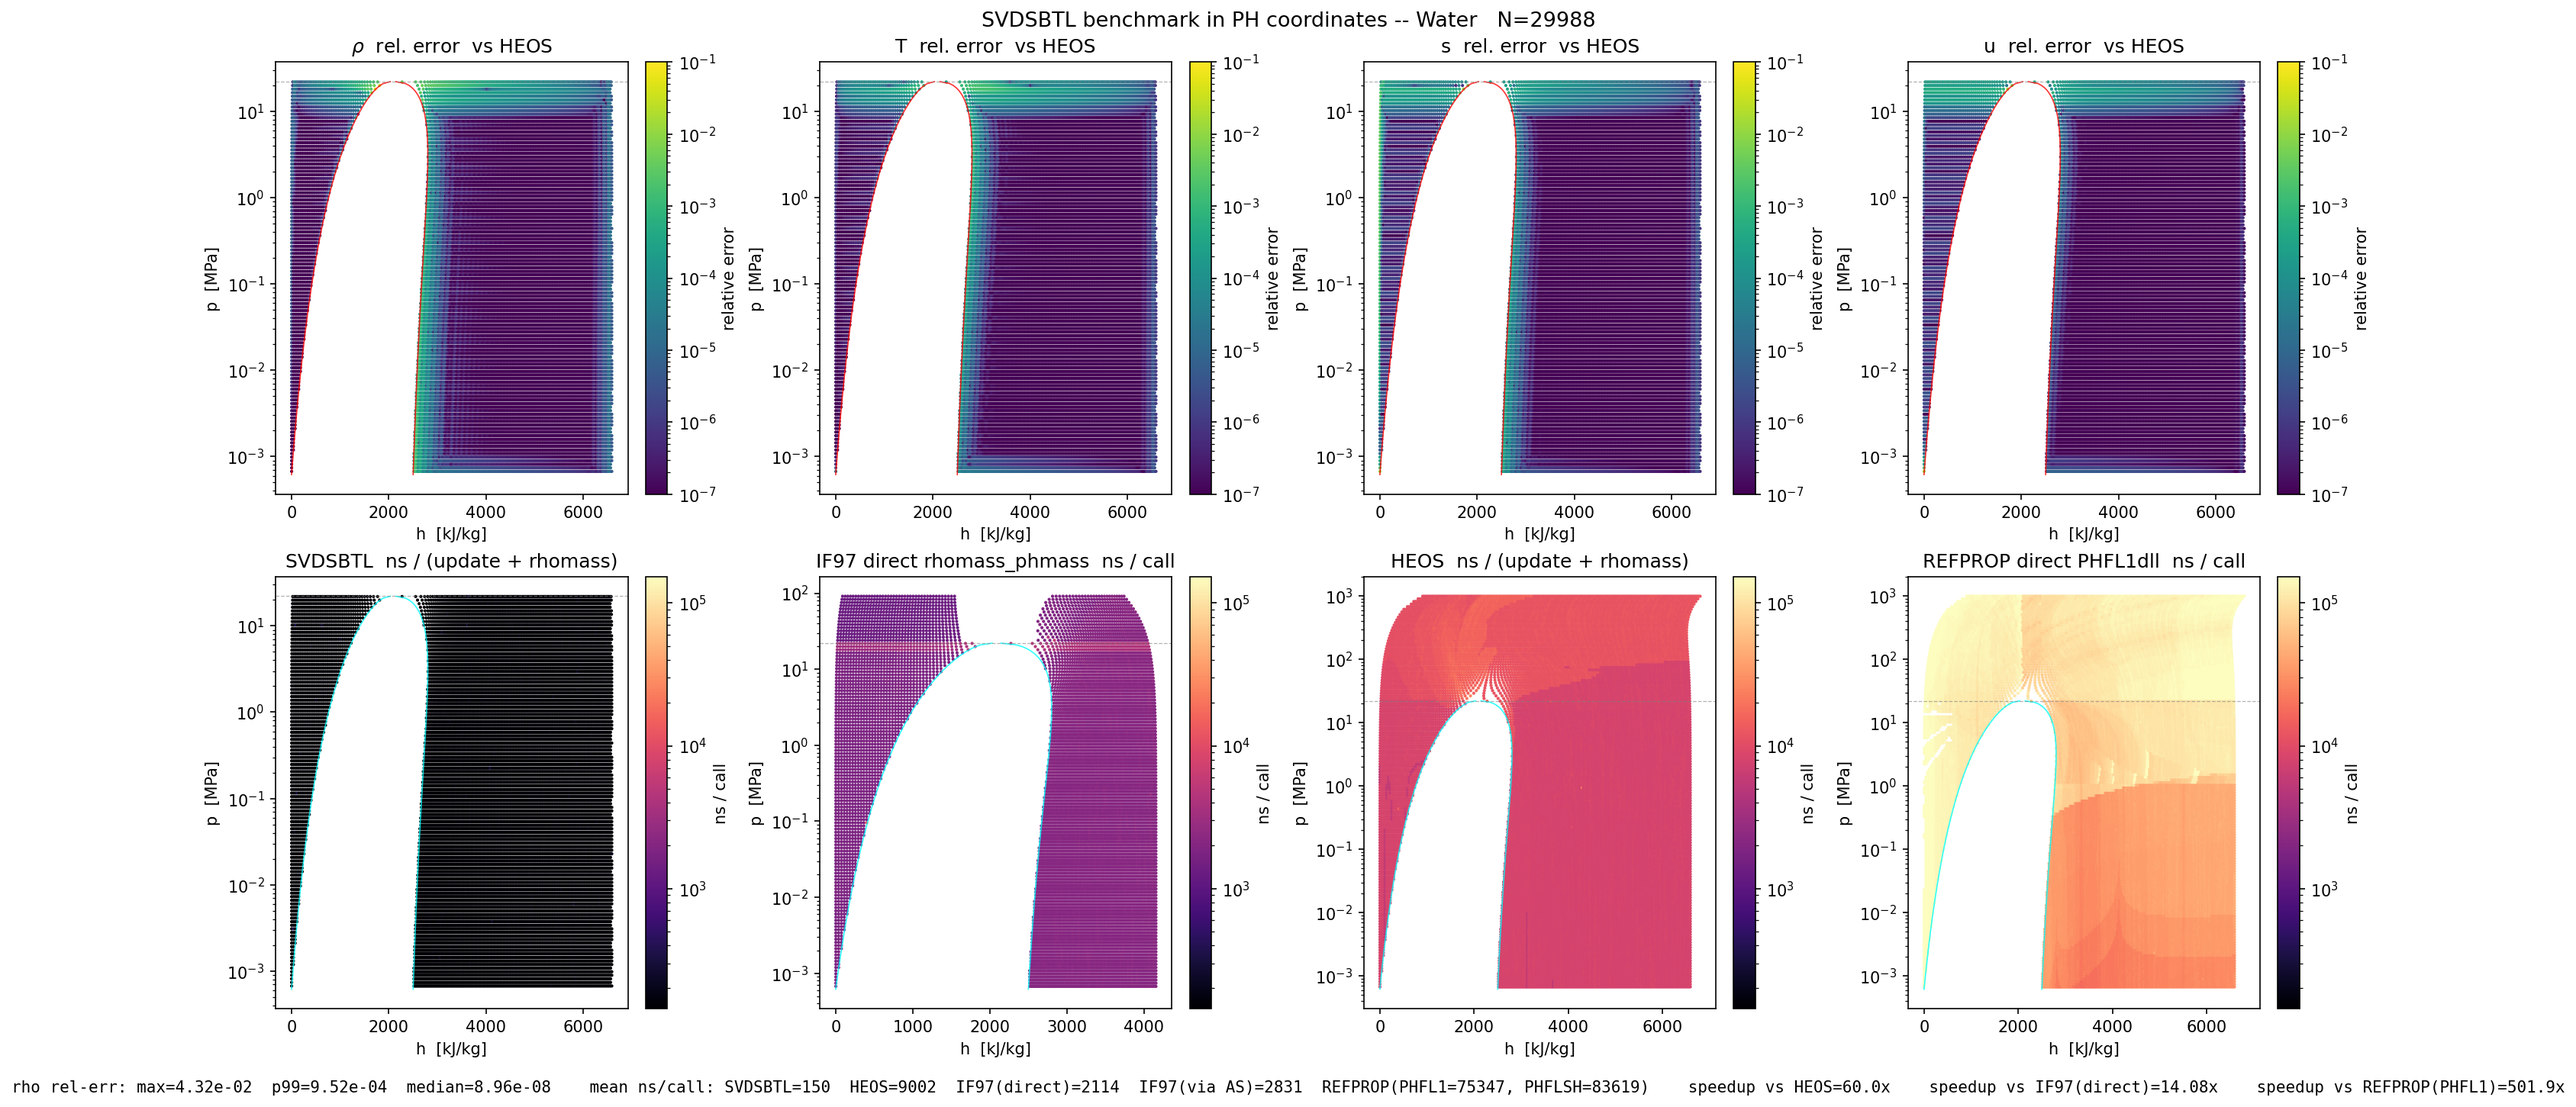
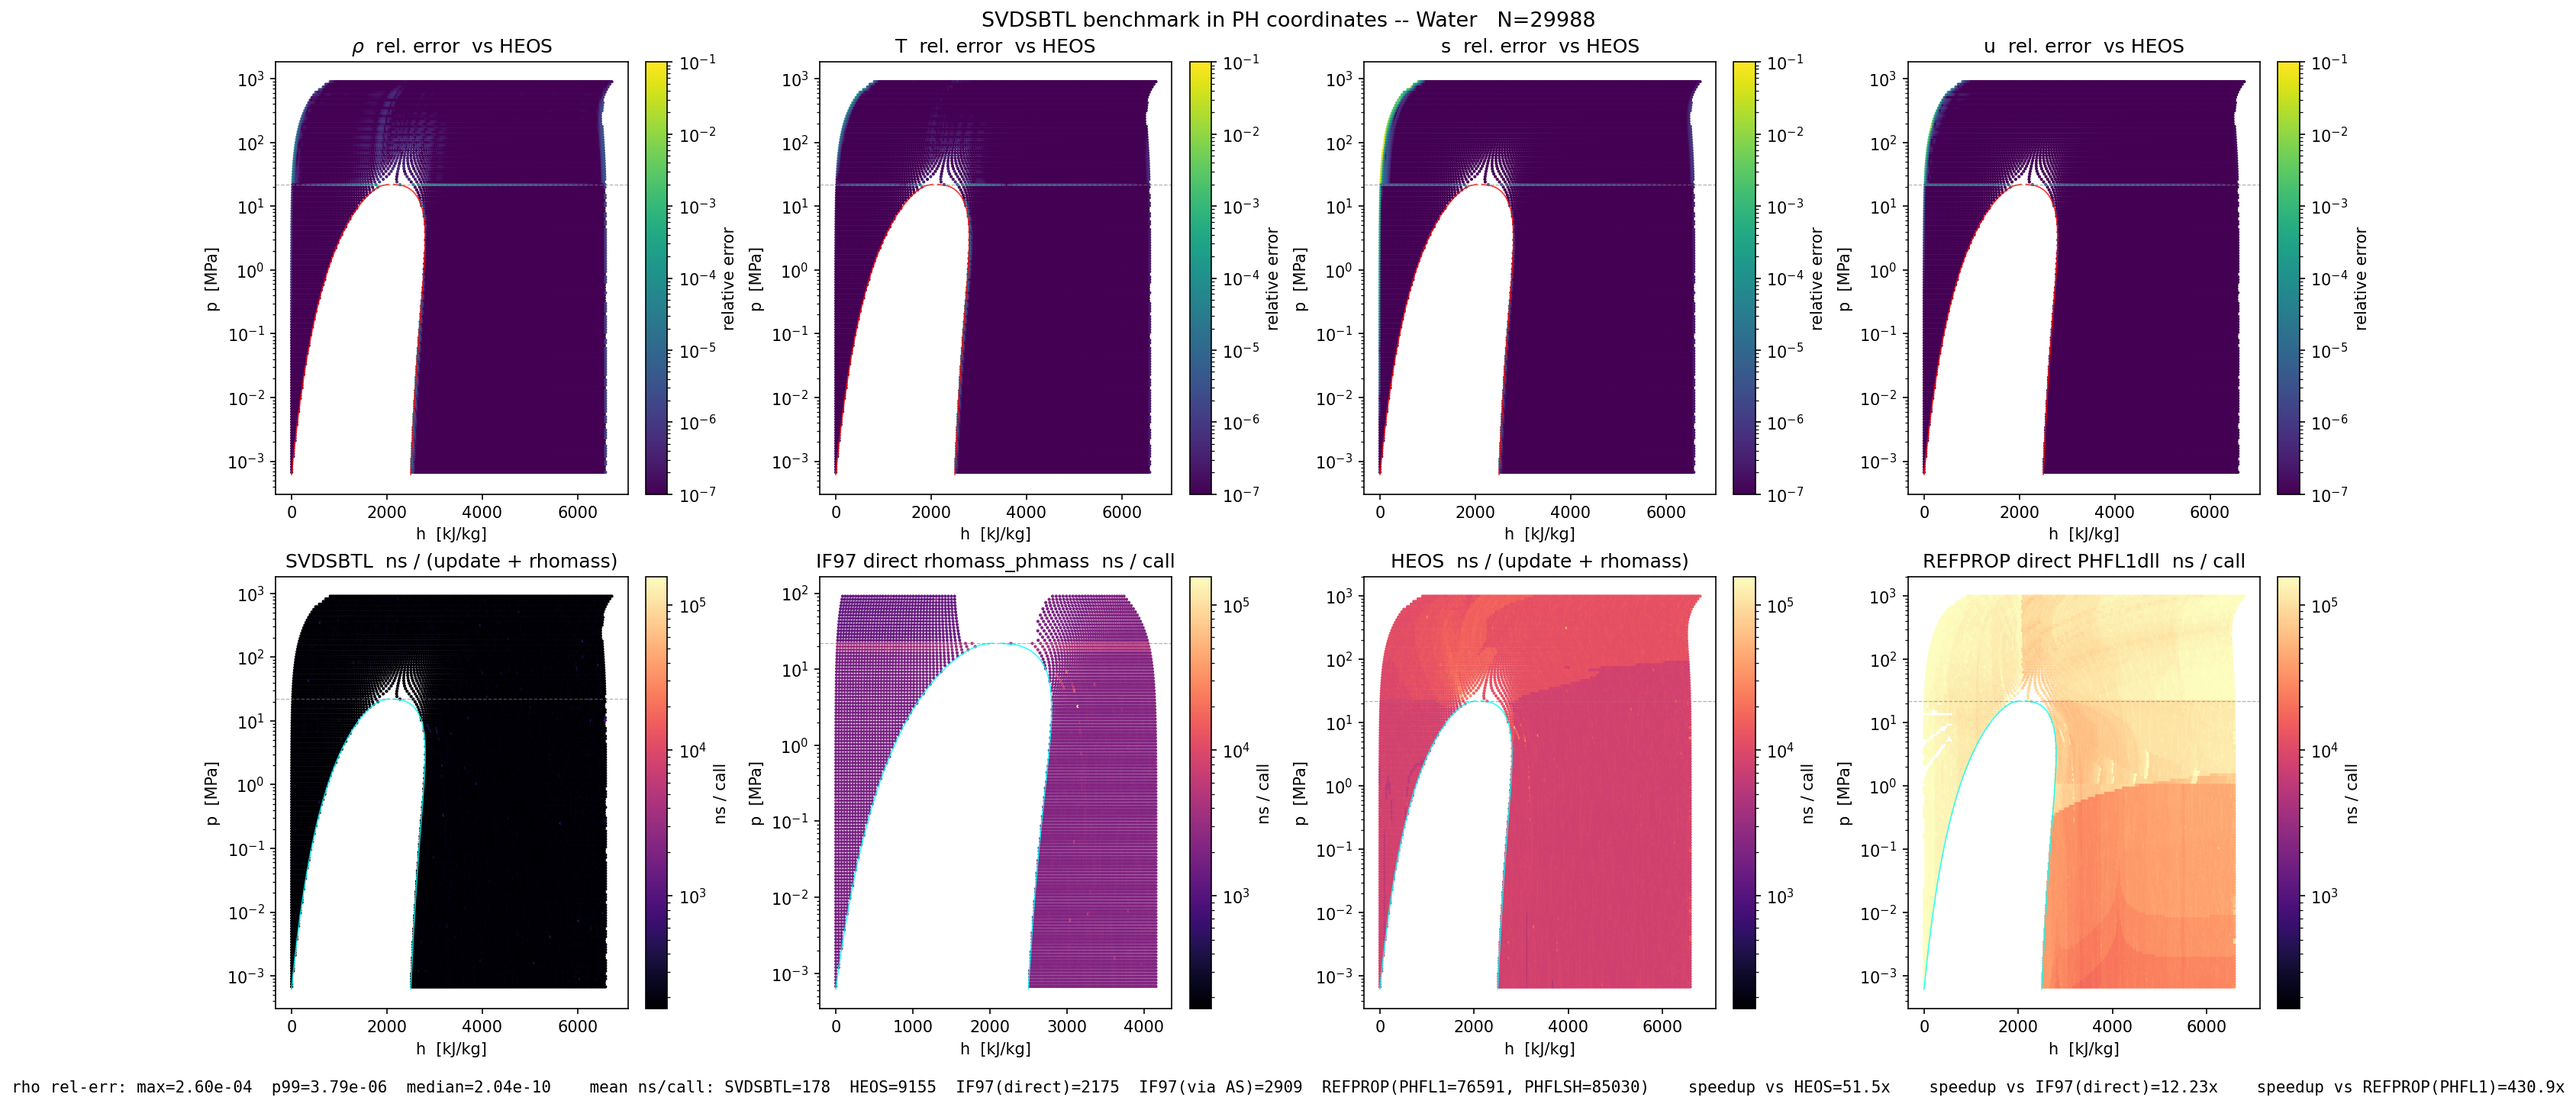
feat(svdsbtl): SUPER region — full-phase-diagram coverage for water
Extends the ph_subcritical / pt_subcritical presets from 2 regions
(LIQUID + VAPOR) to 3 regions (LIQUID + VAPOR + SUPER), closing the
supercritical coverage gap that was the biggest visible failure mode
in the previous hammer plot.  Name is now historical (these presets
cover the full HEOS envelope) -- could be renamed in a follow-up.

Coverage / accuracy on Water (29988-point grid hammer):

  Metric           Before SUPER     After SUPER       Improvement
  ----------------------------------------------------------------
  in-domain        21972 (73.3%)    29750 (99.2%)     +26 pp
  rho max          4.32e-2          2.60e-4           166x better
  rho p99          9.52e-4          3.79e-6           251x better
  rho p95          1.62e-4          1.51e-7          1073x better
  rho median       8.96e-8          2.04e-10          439x better

The "max rho rel-err = 4.3%" dome-adjacent ribbon from the previous
hammer was actually concentrated at p just below p_crit, where the
sat dome pinches and the xnorm = (h - h_lo)/(h_hi - h_lo) transform
becomes ill-conditioned.  With a deliberate ~0.2% pressure gap left
between subcritical p_max (0.999 * p_crit) and supercritical p_min
(1.001 * p_crit), those pathological cells now correctly fall out of
domain rather than being squashed into the highest-error subcritical
cells.

Out-of-domain 238 cells (0.8%) are: (a) the dome interior, which is
two-phase and not covered, (b) a thin pressure gap around p_crit
[…]

diff --git a/src/SBTL/SurfacePresets.cpp b/src/SBTL/SurfacePresets.cpp
@@ -44,7 +44,11 @@ std::vector<PropertySpec> pt_properties() {
 }  // namespace
 
 SurfaceSpec ph_subcritical(::CoolProp::AbstractState& heos, std::size_t NT, std::size_t NR, std::int32_t rank) {
-    const auto [p_min, p_max] = subcritical_pressure_range(heos);
+    // Name is historical: this preset now also registers a SUPER
+    // region above p_crit so the surface covers the full HEOS
+    // (p, h) envelope.  Three regions: LIQUID + VAPOR + SUPER.
+    const auto [p_min, p_max_sub] = subcritical_pressure_range(heos);
+    const auto [p_min_sup, p_max_sup] = supercritical_pressure_range(heos);
     const double T_min_eos = std::max(heos.Ttriple(), heos.Tmin());
     const double T_max_eos = heos.Tmax();
 
@@ -61,9 +65,9 @@ SurfaceSpec ph_subcritical(::CoolProp::AbstractState& heos, std::size_t NT, std:
     //                       if T_min < T_melt(p) at high p.
     //   b_hi = h_sat,L(p) — liquid side of the saturation dome.
     {
-        auto axis = region::AxisTransform::make(region::AxisScale::LOG, p_min, p_max);
-        auto lo = build_h_isotherm_floor(heos, p_min, p_max, T_min_eos);
-        auto hi = build_h_sat_L(heos, p_min, p_max);
+        auto axis = region::AxisTransform::make(region::AxisScale::LOG, p_min, p_max_sub);
+        auto lo = build_h_isotherm_floor(heos, p_min, p_max_sub, T_min_eos);
+        auto hi = build_h_sat_L(heos, p_min, p_max_sub);
         spec.regions.emplace_back(axis, std::move(lo), std::move(hi));
     }
     // VAPOR region: primary = log p, secondary = h.
@@ -71,9 +75,19 @@ SurfaceSpec ph_subcritical(::CoolProp::AbstractState& heos, std::size_t NT, std:
     //   b_hi = h(T_max - 0.5 K, p) — hot ceiling within the HEOS
     //                                validity envelope.
     {
-        auto axis = region::AxisTransform::make(region::AxisScale::LOG, p_min, p_max);
-        auto lo = build_h_sat_V(heos, p_min, p_max);
-        auto hi = build_h_isotherm_ceiling(heos, p_min, p_max, T_max_eos - 0.5);
+        auto axis = region::AxisTransform::make(region::AxisScale::LOG, p_min, p_max_sub);
+        auto lo = build_h_sat_V(heos, p_min, p_max_sub);
+        auto hi = build_h_isotherm_ceiling(heos, p_min, p_max_sub, T_max_eos - 0.5);
+        spec.regions.emplace_back(axis, std::move(lo), std::move(hi));
+    }
+    // SUPER region: p > p_crit.  Primary = log p over [p_crit*1.001,
+    // p_max_eos*0.99], secondary = h.  No sat dome above p_crit, so
+    // the secondary bounds are the same low-T / high-T isotherms used
+    // by LIQUID / VAPOR — they continue smoothly into supercritical.
+    {
+        auto axis = region::AxisTransform::make(region::AxisScale::LOG, p_min_sup, p_max_sup);
+        auto lo = build_h_isotherm_floor(heos, p_min_sup, p_max_sup, T_min_eos);
+        auto hi = build_h_isotherm_ceiling(heos, p_min_sup, p_max_sup, T_max_eos - 0.5);
         spec.regions.emplace_back(axis, std::move(lo), std::move(hi));
     }
 
@@ -102,8 +116,45 @@ SurfaceSpec ph_subcritical(::CoolProp::AbstractState& heos, std::size_t NT, std:
     return spec;
 }
 
+// Build a T-floor CubicSplineCurve for any pressure range, walking T
+// up at each knot to clear the melting line if needed.  Reused by
+// both the subcritical LIQUID region and the SUPER region of the PT
+// preset.
+namespace {
+std::unique_ptr<region::CubicSplineCurve> pt_T_floor_curve_(::CoolProp::AbstractState& heos, double p_min, double p_max, double T_min_eos,
+                                                            const SatBoundaryBuildOptions& sbopts) {
+    const double log_p_min = std::log(p_min);
+    const double log_p_max = std::log(p_max);
+    std::vector<double> p_knots(sbopts.n_knots);
+    std::vector<double> y(sbopts.n_knots);
+    const std::size_t walk_steps = sbopts.t_floor_walk_steps;
+    for (std::size_t k = 0; k < sbopts.n_knots; ++k) {
+        const double p = std::exp(log_p_min + static_cast<double>(k) * (log_p_max - log_p_min) / static_cast<double>(sbopts.n_knots - 1));
+        p_knots[k] = p;
+        double T_found = std::nan("");
+        for (std::size_t s = 0; s < walk_steps; ++s) {
+            const double T_try = T_min_eos + 0.5 * static_cast<double>(s);
+            try {
+                heos.update(::CoolProp::PT_INPUTS, p, T_try);
+                T_found = T_try;
+                break;
+            } catch (...) {  // NOLINT(bugprone-empty-catch)
+            }
+        }
+        if (!std::isfinite(T_found)) {
+            throw std::runtime_error("pt preset: T-floor unreachable within " + std::to_string(walk_steps / 2) + " K of T_min_eos");
+        }
+        y[k] = T_found;
+    }
+    return region::CubicSplineCurve::build(std::move(p_knots), std::move(y));
+}
+}  // namespace
+
 SurfaceSpec pt_subcritical(::CoolProp::AbstractState& heos, std::size_t NT, std::size_t NR, std::int32_t rank) {
+    // Historical name; now covers the full phase diagram via three
+    // regions: LIQUID + VAPOR (subcritical) + SUPER (p > p_crit).
     const auto [p_min, p_max] = subcritical_pressure_range(heos);
+    const auto [p_min_sup, p_max_sup] = supercritical_pressure_range(heos);
     const double T_min_eos = std::max(heos.Ttriple(), heos.Tmin());
     const double T_max_eos = heos.Tmax();
 
@@ -123,34 +174,11 @@ SurfaceSpec pt_subcritical(::CoolProp::AbstractState& heos, std::size_t NT, std:
     // exactly like the h-floor case.
 
     // LIQUID region.  T-floor walks T_min(p) up over the melting
-    // line, same trick as build_h_isotherm_floor.  Pre-compute the
-    // (p, T_floor) knots inline, then hand them to CubicSplineCurve.
+    // line.  Helper handles the knot loop so the SUPER region below
+    // can reuse it.
     {
-        const SatBoundaryBuildOptions sbopts;
-        const double log_p_min = std::log(p_min);
-        const double log_p_max = std::log(p_max);
-        std::vector<double> p_knots(sbopts.n_knots);
-        std::vector<double> y(sbopts.n_knots);
-        for (std::size_t k = 0; k < sbopts.n_knots; ++k) {
-            const double p = std::exp(log_p_min + static_cast<double>(k) * (log_p_max - log_p_min) / static_cast<double>(sbopts.n_knots - 1));
-            p_knots[k] = p;
-            double T_found = std::nan("");
-            for (int s = 0; s < 40; ++s) {
-                const double T_try = T_min_eos + 0.5 * static_cast<double>(s);
-                try {
-                    heos.update(::CoolProp::PT_INPUTS, p, T_try);
-                    T_found = T_try;
-                    break;
-                } catch (...) {  // NOLINT(bugprone-empty-catch)
-                }
-            }
-            if (!std::isfinite(T_found)) {
-                throw std::runtime_error("pt_subcritical: T-floor unreachable within 20 K of T_min_eos");
-            }
-            y[k] = T_found;
-        }
         auto axis = region::AxisTransform::make(region::AxisScale::LOG, p_min, p_max);
-        auto t_lo = region::CubicSplineCurve::build(std::move(p_knots), std::move(y));
+        auto t_lo = pt_T_floor_curve_(heos, p_min, p_max, T_min_eos, SatBoundaryBuildOptions{});
         auto t_hi = build_T_sat(heos, p_min, p_max);
         spec.regions.emplace_back(axis, std::move(t_lo), std::move(t_hi));
     }
@@ -161,6 +189,15 @@ SurfaceSpec pt_subcritical(::CoolProp::AbstractState& heos, std::size_t NT, std:
         // Constant T_max ceiling — no melting consideration on the
         // hot side, so just a flat isotherm.
         auto t_hi = std::make_unique<region::ConstantCurve>(p_min, p_max, T_max_eos - 0.5);
+        spec.regions.emplace_back(axis, std::move(t_lo), std::move(t_hi));
+    }
+    // SUPER region: p > p_crit.  T-floor still walks T_min up over
+    // melting line (the melting curve extends well into supercritical
+    // for most fluids).  Hot ceiling stays at T_max - 0.5 K.
+    {
+        auto axis = region::AxisTransform::make(region::AxisScale::LOG, p_min_sup, p_max_sup);
+        auto t_lo = pt_T_floor_curve_(heos, p_min_sup, p_max_sup, T_min_eos, SatBoundaryBuildOptions{});
+        auto t_hi = std::make_unique<region::ConstantCurve>(p_min_sup, p_max_sup, T_max_eos - 0.5);
         spec.regions.emplace_back(axis, std::move(t_lo), std::move(t_hi));
     }
 

diff --git a/src/Tests/CoolProp-Tests-SBTLAdapter.cpp b/src/Tests/CoolProp-Tests-SBTLAdapter.cpp
@@ -79,12 +79,12 @@ TEST_CASE("SVDSurface PH preset builds + evals against HEOS", "[SBTL][SVDSurface
     // production-resolution accuracy.
     auto spec = cp_sbtl::presets::ph_subcritical(*heos, /*NT=*/40, /*NR=*/80, /*rank=*/10);
     REQUIRE(spec.input_pair == ::CoolProp::HmassP_INPUTS);
-    REQUIRE(spec.regions.size() == 2);
+    REQUIRE(spec.regions.size() == 3);
     REQUIRE(spec.properties.size() == 4);
 
     auto surface = cp_sbtl::build_surface(*heos, std::move(spec));
     REQUIRE(surface.sealed());
-    REQUIRE(surface.region_count() == 2);
+    REQUIRE(surface.region_count() == 3);
 
     // Probe single-phase Water states in (T, p) → look up via (h, p).
     std::mt19937 rng(57);
@@ -224,7 +224,7 @@ TEST_CASE("SVDSurface PH preset across multi-fluid set", "[SBTL][SVDSurface][pre
             auto spec = cp_sbtl::presets::ph_subcritical(*heos, /*NT=*/30, /*NR=*/50, /*rank=*/8);
             cp_sbtl::SVDSurface surface = cp_sbtl::build_surface(*heos, std::move(spec));
             REQUIRE(surface.sealed());
-            REQUIRE(surface.region_count() == 2);
+            REQUIRE(surface.region_count() == 3);
 
             // Round-trip through serializer.  HEOS canonicalises aliases
             // (e.g. "Propane" → "n-Propane"), so compare against what the
@@ -232,7 +232,7 @@ TEST_CASE("SVDSurface PH preset across multi-fluid set", "[SBTL][SVDSurface][pre
             const auto blob = cp_sbtl::SVDSurfaceSerializer::save(surface);
             auto reloaded = cp_sbtl::SVDSurfaceSerializer::load(blob);
             REQUIRE(reloaded.fluid_name() == surface.fluid_name());
-            REQUIRE(reloaded.region_count() == 2);
+            REQUIRE(reloaded.region_count() == 3);
 
             // Spot-check eval matches HEOS at a handful of single-phase probes.
             std::mt19937 rng(91);
@@ -273,7 +273,7 @@ TEST_CASE("SVDSurface PT preset water round-trip", "[SBTL][SVDSurface][preset_pt
     auto heos = std::shared_ptr<::CoolProp::AbstractState>(::CoolProp::AbstractState::factory("HEOS", "Water"));
     auto spec = cp_sbtl::presets::pt_subcritical(*heos, /*NT=*/40, /*NR=*/80, /*rank=*/10);
     REQUIRE(spec.input_pair == ::CoolProp::PT_INPUTS);
-    REQUIRE(spec.regions.size() == 2);
+    REQUIRE(spec.regions.size() == 3);
 
     cp_sbtl::SVDSurface surface = cp_sbtl::build_surface(*heos, std::move(spec));
     REQUIRE(surface.sealed());
@@ -306,7 +306,7 @@ TEST_CASE("SVDSurfaceSerializer file save/load round-trip", "[SBTL][serializer][
     cp_sbtl::SVDSurfaceSerializer::save_to_file(surface, path);
     auto loaded = cp_sbtl::SVDSurfaceSerializer::load_from_file(path);
     REQUIRE(loaded.fluid_name() == "Water");
-    REQUIRE(loaded.region_count() == 2);
+    REQUIRE(loaded.region_count() == 3);
     // Spot-check a single eval matches.
     heos->update(::CoolProp::PT_INPUTS, 1e5, 350.0);
     const double h = heos->hmass();

diff --git a/src/SBTL/SatBoundaryFactory.cpp b/src/SBTL/SatBoundaryFactory.cpp
@@ -67,8 +67,9 @@ std::unique_ptr<region::CubicSplineCurve> build_h_isotherm_floor(::CoolProp::Abs
     // For fluids with steep melting curves the requested T_min may be
     // below T_melt(p) at high p; walk T up in 0.5 K steps until HEOS
     // accepts the (T, p) state.  Matches Phase 2a's `h_lo_liq` lambda.
-    return spline_through_log_p_samples(p_min, p_max, opts.n_knots, [&](double p) {
-        for (int k = 0; k < 40; ++k) {
+    const std::size_t walk_steps = opts.t_floor_walk_steps;
+    return spline_through_log_p_samples(p_min, p_max, opts.n_knots, [&, walk_steps](double p) {
+        for (std::size_t k = 0; k < walk_steps; ++k) {
             const double T_try = T_min + 0.5 * static_cast<double>(k);
             try {
                 heos.update(::CoolProp::PT_INPUTS, p, T_try);
@@ -77,7 +78,7 @@ std::unique_ptr<region::CubicSplineCurve> build_h_isotherm_floor(::CoolProp::Abs
                 // Below melting line at this p; bump T up and retry.
             }
         }
-        throw std::runtime_error("build_h_isotherm_floor: floor unreachable within 20 K of T_min");
+        throw std::runtime_error("build_h_isotherm_floor: floor unreachable within " + std::to_string(walk_steps / 2) + " K of T_min");
     });
 }
 
@@ -96,6 +97,12 @@ std::pair<double, double> subcritical_pressure_range(::CoolProp::AbstractState& 
     heos.update(::CoolProp::QT_INPUTS, 0.0, heos.Ttriple() * 1.001);
     const double p_triple = heos.p();
     return {p_triple * 1.01, 0.999 * p_crit};
+}
+
+std::pair<double, double> supercritical_pressure_range(::CoolProp::AbstractState& heos) {
+    const double p_crit = heos.p_critical();
+    const double p_max_eos = heos.pmax();
+    return {1.001 * p_crit, 0.99 * p_max_eos};
 }
 
 }  // namespace sbtl

diff --git a/include/CoolProp/sbtl/SatBoundaryFactory.h b/include/CoolProp/sbtl/SatBoundaryFactory.h
@@ -40,6 +40,14 @@ namespace sbtl {
 struct SatBoundaryBuildOptions
 {
     std::size_t n_knots = 64;  // CubicSplineCurve knots per curve
+
+    // T-floor walk-up: number of 0.5 K steps to try when T_min falls
+    // below T_melt(p) at high p.  Default 1000 = 500 K of slack, which
+    // covers water's melting line all the way to its EOS p_max ~1 GPa
+    // (melting curve reaches ~370 K vs T_triple 273 K).  Subcritical
+    // fluids typically clear in a handful of steps; this is just the
+    // safety net for SUPER-region builds.
+    std::size_t t_floor_walk_steps = 1000;
 };
 
 // h_sat,L(p) — mass enthalpy on the saturated-liquid side of the dome.
@@ -79,6 +87,15 @@ std::unique_ptr<region::CubicSplineCurve> build_h_isotherm_ceiling(::CoolProp::A
 // don't fail at the exact boundary.  Driven by the fluid's HEOS
 // AbstractState — needs an instance already constructed by the caller.
 std::pair<double, double> subcritical_pressure_range(::CoolProp::AbstractState& heos);
+
+// Convenience: supercritical pressure range for `fluid`.  Returns
+// (p_min, p_max) ≈ (p_crit * 1.001, pmax_eos * 0.99) — a thin margin
+// above the critical point so the SUPER region doesn't share its
+// lower boundary with the subcritical regions' upper bound (the SVD
+// gets ill-conditioned right at p_crit; the gap is small enough that
+// caller-side dispatch falls back to direct HEOS in the gap, when /
+// if that fallback ships).  Driven by the fluid's HEOS AbstractState.
+std::pair<double, double> supercritical_pressure_range(::CoolProp::AbstractState& heos);
 
 }  // namespace sbtl
 }  // namespace CoolProp
